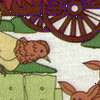
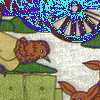
Finishes p3

diff --git a/p3.cpp b/p3.cpp
@@ -1,0 +1,373 @@
+#include "opencv2/highgui.hpp"
+#include <iostream>
+using namespace cv;
+using namespace std;
+#include <math.h>       /* pow */
+
+#include <Eigen/Dense>
+
+Eigen::Vector3d RGB_to_XYZ(Eigen::Vector3d RGB) {
+double var_R = ( RGB(0) / 255.0 );
+double var_G = ( RGB(1) / 255.0 );
+double var_B = ( RGB(2) / 255.0 );
+
+if ( var_R > 0.04045 ) {
+    var_R = pow(( ( var_R + 0.055 ) / 1.055 ) , 2.4);
+} else {
+    var_R = var_R / 12.92;
+}
+if ( var_G > 0.04045 ){
+    var_G = pow(( ( var_G + 0.055 ) / 1.055 ) , 2.4);
+} else {
+ var_G = var_G / 12.92;
+}
+if ( var_B > 0.04045 ){
+    var_B = pow(( ( var_B + 0.055 ) / 1.055 ) , 2.4);
+}
+else {
+ var_B = var_B / 12.92;
+}
+
+var_R = var_R * 100;
+var_G = var_G * 100;
+var_B = var_B * 100;
+
+double X = var_R * 0.4124 + var_G * 0.3576 + var_B * 0.1805;
+double Y = var_R * 0.2126 + var_G * 0.7152 + var_B * 0.0722;
+double Z = var_R * 0.0193 + var_G * 0.1192 + var_B * 0.9505;
+
+return Eigen::Vector3d(X, Y, Z);
+}
+
+Eigen::Vector3d XYZ_to_Luv(Eigen::Vector3d XYZ) {
+    double X = XYZ(0);
+    double Y = XYZ(1);
+    double Z = XYZ(2);
+
+    double var_U = ( 4.0 * X ) / ( X + ( 15.0 * Y ) + ( 3.0 * Z ) );
+    double var_V = ( 9.0 * Y ) / ( X + ( 15.0 * Y ) + ( 3.0 * Z ) );
+
+    double var_Y = Y / 100;
+
+    if ( var_Y > 0.008856 ) {
+        var_Y = pow(var_Y , ( 1.0/3.0 ));
+    } else {
+        var_Y = (7.787 * var_Y) + (16.0 / 116.0);
+    }
+
+    double ReferenceX = 95.047;
+    double ReferenceY = 100.0;
+    double ReferenceZ = 108.883;
+    double ref_U = ( 4.0 * ReferenceX ) / ( ReferenceX + ( 15.0 * ReferenceY ) + ( 3.0 * ReferenceZ ) );
+    double ref_V = ( 9.0 * ReferenceY ) / ( ReferenceX + ( 15.0 * ReferenceY ) + ( 3.0 * ReferenceZ ) );
+
+    double L = ( 116 * var_Y ) - 16;
+    double u = 13 * L * ( var_U - ref_U );
+    double v = 13 * L * ( var_V - ref_V );
+
+    return Eigen::Vector3d(L, u, v);
+}
+
+Eigen::Vector3d RGB_to_Luv(Eigen::Vector3d RGB) {
+    Eigen::Vector3d XYZ = RGB_to_XYZ(RGB);
+    //cout << "XYZ:\n" << XYZ << "\n";
+    return XYZ_to_Luv(XYZ);
+}
+
+Eigen::Vector3d RGB_to_Luv_V1(Eigen::Vector3d RGB) {
+    Eigen::Matrix3d rgbmat;
+    rgbmat << 0.412453, 0.357580, 0.180423,
+       0.212671, 0.715160, 0.072169,
+       0.019334, 0.119193, 0.950227;
+      Eigen::Vector3d XYZ = rgbmat * RGB;
+
+      double X = XYZ(0);
+      double Y = XYZ(1);
+      double Z = XYZ(2);
+      //cout << "X " << X << "\nY " << Y << "\nZ " << Z << "\n";
+      double L;
+      if (Y > 0.008856) {
+        L = pow(116*Y, (1.0/3.0));
+      } else {
+        L = 903.3*Y;
+      }
+      double uprime = (4.0*X)/(X + (15.0*Y) + (3.0*Z));
+      double vprime = (9.0*Y)/(X + (15.0*Y) + (3.0*Z));
+      double un = 0.19793943;
+      double vn = 0.46831096;
+      double u = 13.0*L*(uprime - 0.19793943);
+      double v = 13.0*L*(vprime - 0.46831096);
+
+      Eigen::Vector3d out;
+      out(0) = L;
+      out(1) = u;
+      out(2) = v;
+      return out;
+}
+
+
+double getYfromL(double L) {
+    double epsilon = 0.008856;
+    double k = 903.3;
+    if (L > k*epsilon) {
+        return pow((L+16)/116, 3);
+    }
+
+    return L/k;
+}
+
+Eigen::Vector3d Luv_to_XYZ(Eigen::Vector3d Luv) {
+
+        double L = Luv(0);
+        double u = Luv(1);
+        double v = Luv(2);
+    //cout << "inside Luv_to_XYZ ";
+    //cout << "L=" << L << " u=" << u << " v=" << v << "\n";
+
+double var_Y = ( L + 16.0 ) /116.0;
+if ( pow(var_Y, 3)  > 0.008856 ){
+    var_Y = pow(var_Y, 3);
+}
+else {
+    var_Y = ( var_Y - 16.0 / 116.0 ) / 7.787;
+}
+
+    double ReferenceX = 95.047;
+    double ReferenceY = 100.0;
+    double ReferenceZ = 108.883;
+
+double ref_U = ( 4.0 * ReferenceX ) / ( ReferenceX + ( 15.0 * ReferenceY ) + ( 3.0 * ReferenceZ ) );
+double ref_V = ( 9.0 * ReferenceY ) / ( ReferenceX + ( 15.0 * ReferenceY ) + ( 3.0 * ReferenceZ ) );
+
+double var_U = u / ( 13.0 * L ) + ref_U;
+double var_V = v / ( 13.0 * L ) + ref_V;
+
+double Y = var_Y * 100.0;
+double X =  -1 * ( 9.0 * Y * var_U ) / ( ( var_U - 4.0 ) * var_V - var_U * var_V );
+double Z = ( 9.0 * Y - ( 15.0 * var_V * Y ) - ( var_V * X ) ) / ( 3 * var_V );
+    //cout << "inside Luv_to_XYZ ";
+    //cout << "X=" << X << " Y=" << Y << " Z=" << Z << "\n";
+
+    return Eigen::Vector3d(X, Y, Z);
+}
+
+Eigen::Vector3d XYZ_to_RGB(Eigen::Vector3d XYZ) {
+    //X, Y and Z input refer to a D65/2° standard illuminant.
+    //sR, sG and sB (standard RGB) output range = 0 ÷ 255
+
+    double var_X = XYZ(0) / 100.0;
+    double var_Y = XYZ(1) / 100.0;
+    double var_Z = XYZ(2) / 100.0;
+
+    double var_R = var_X *  3.2406 + var_Y * -1.5372 + var_Z * -0.4986;
+    double var_G = var_X * -0.9689 + var_Y *  1.8758 + var_Z *  0.0415;
+    double var_B = var_X *  0.0557 + var_Y * -0.2040 + var_Z *  1.0570;
+
+    if ( var_R > 0.0031308 ) {
+        var_R = 1.055 * pow( var_R , ( 1 / 2.4 ) ) - 0.055;
+    } else {
+       var_R = 12.92 * var_R;
+    }
+    if ( var_G > 0.0031308 ) {
+        var_G = 1.055 * pow( var_G , ( 1 / 2.4 ) ) - 0.055;
+    } else {
+        var_G = 12.92 * var_G;
+    }
+    if ( var_B > 0.0031308 ) {
+        var_B = 1.055 * pow( var_B , ( 1 / 2.4 ) ) - 0.055;
+    } else {
+        var_B = 12.92 * var_B;
+    }
+
+    double sR = var_R * 255;
+    double sG = var_G * 255;
+    double sB = var_B * 255;
+    return Eigen::Vector3d(sR, sG, sB);
+}
+
+
+double Linear_Scale(double x, double a, double b, double A, double B) {
+    return (((x-a)*(B-A))/(b-a))+A;
+}
+
+void runOnWindow(int W1,int H1, int W2,int H2, Mat inputImage, char *outName) {
+  int rows = inputImage.rows;
+  int cols = inputImage.cols;
+
+  vector<Mat> i_planes;
+  split(inputImage, i_planes);
+  Mat iB = i_planes[0];
+  Mat iG = i_planes[1];
+  Mat iR = i_planes[2];
+
+  // dynamically allocate RGB arrays of size rows x cols
+  int** R = new int*[rows];
+  int** G = new int*[rows];
+  int** B = new int*[rows];
+  for(int i = 0 ; i < rows ; i++) {
+    R[i] = new int[cols];
+    G[i] = new int[cols];
+    B[i] = new int[cols];
+  }
+
+  for(int i = 0 ; i < rows ; i++)
+    for(int j = 0 ; j < cols ; j++) {
+      R[i][j] = iR.at<uchar>(i,j);
+      G[i][j] = iG.at<uchar>(i,j);
+      B[i][j] = iB.at<uchar>(i,j);
+    }
+
+
+  //	   The transformation should be based on the
+  //	   historgram of the pixels in the W1,W2,H1,H2 range.
+  //	   The following code goes over these pixels
+  double largestL = -1;
+  double smallestL = -1;
+    int h_i [101];
+    int f_i [101];
+    int lookup_table [101];
+
+    for(int x = 0; x <= 100; x++) {
+        h_i[x] = 0;
+        f_i[x] = 0;
+    }
+
+  for(int i = H1 ; i <= H2 ; i++) {
+    for(int j = W1 ; j <= W2 ; j++) {
+      double r = R[i][j];
+      double g = G[i][j];
+      double b = B[i][j];
+      Eigen::Vector3d RGB(r, g, b);
+
+        Eigen::Vector3d Luv = RGB_to_Luv(RGB);
+
+        int getL = 0;
+        Luv(getL) = floor(Luv(getL));
+        int index = (int) Luv(getL);
+        h_i[index] += 1;
+    }
+  }
+    for(int x = 0; x <= 100; x++) {
+        if (x - 1 >= 0) {
+            f_i[x] = h_i[x] + f_i[x-1];
+            continue;
+        }
+        f_i[x] = h_i[x];
+    }
+    /*
+    cout << "f_i ";
+    for(int x = 0; x <= 100; x++) {
+        cout << f_i[x] << ", ";
+    }
+    cout << "\n";
+    cout << "h_i ";
+    for(int x = 0; x <= 100; x++) {
+        cout << h_i[x] << ", ";
+    }
+    cout << "\n";
+     */
+    double num_pixels = f_i[100];
+    //cout << "num pixels " << num_pixels << "\n";
+    for(int x = 0; x <= 100; x++) {
+        double A = 0.0;
+        if (x - 1 >= 0) {
+            A = f_i[x-1];
+        }
+        double numerator = (A+f_i[x])*100.0;
+        double denominator = 2*num_pixels;
+        // cout << "numerator ";
+        // cout << numerator;
+        // cout << " denom ";
+        // cout << denominator;
+        int res = floor(numerator/denominator);
+        lookup_table[x] = res;
+    }
+
+    //cout << "small\n" << smallestL << "\nbig\n" << largestL << "\n";
+  for(int i = H1 ; i <= H2 ; i++) {
+    for(int j = W1 ; j <= W2 ; j++) {
+      double r = R[i][j];
+      double g = G[i][j];
+      double b = B[i][j];
+      Eigen::Vector3d RGB(r, g, b);
+        //cout << "RGB:\n" << RGB << "\n";
+
+      Eigen::Vector3d Luv = RGB_to_Luv(RGB);
+        Luv(0) = floor(Luv(0));
+        //cout << "before " << Luv(0) << " ";
+        int index = (int) Luv(0);
+        Luv(0) = (double) lookup_table[index];
+        // cout << "after " << Luv(0) << " ";
+        // cout << "lookup table " << lookup_table[index] << " ";
+        // cout << "index " << index << " ";
+      Eigen::Vector3d XYZ = Luv_to_XYZ(Luv);
+      Eigen::Vector3d RGBdelta = XYZ_to_RGB(XYZ);
+        // cout << "\n";
+
+      R[i][j] = RGBdelta(0);
+      G[i][j] = RGBdelta(1);
+      B[i][j] = RGBdelta(2);
+    }
+  }
+
+  Mat oR(rows, cols, CV_8UC1);
+  Mat oG(rows, cols, CV_8UC1);
+  Mat oB(rows, cols, CV_8UC1);
+  for(int i = 0 ; i < rows ; i++)
+    for(int j = 0 ; j < cols ; j++) {
+      oR.at<uchar>(i,j) = R[i][j];;
+      oG.at<uchar>(i,j) = G[i][j];;
+      oB.at<uchar>(i,j) = B[i][j];;
+    }
+
+  Mat o_planes[] = {oB, oG, oR};
+  Mat outImage;
+  merge(o_planes, 3, outImage);
+  
+  imwrite(outName, outImage);
+}
+
+int main(int argc, char** argv) {
+  if(argc != 7) {
+    cerr << argv[0] << ": "
+	 << "got " << argc-1 
+	 << " arguments. Expecting six: w1 h1 w2 h2 ImageIn ImageOut." 
+	 << endl ;
+    cerr << "Example: proj1b 0.2 0.1 0.8 0.5 fruits.jpg out.bmp" << endl;
+    return(-1);
+  }
+  double w1 = atof(argv[1]);
+  double h1 = atof(argv[2]);
+  double w2 = atof(argv[3]);
+  double h2 = atof(argv[4]);
+  char *inputName = argv[5];
+  char *outputName = argv[6];
+
+  if(w1<0 || h1<0 || w2<=w1 || h2<=h1 || w2>1 || h2>1) {
+    cerr << " arguments must satisfy 0 <= w1 < w2 <= 1"
+	 << " ,  0 <= h1 < h2 <= 1" << endl;
+    return(-1);
+  }
+
+  Mat inputImage = imread(inputName, CV_LOAD_IMAGE_UNCHANGED);
+  if(inputImage.empty()) {
+    //cout <<  "Could not open or find the image " << inputName << endl;
+    return(-1);
+  }
+
+  if(inputImage.type() != CV_8UC3) {
+    //cout <<  inputName << " is not a standard color image  " << endl;
+    return(-1);
+  }
+
+  int rows = inputImage.rows;
+  int cols = inputImage.cols;
+  int W1 = (int) (w1*(cols-1));
+  int H1 = (int) (h1*(rows-1));
+  int W2 = (int) (w2*(cols-1));
+  int H2 = (int) (h2*(rows-1));
+
+  runOnWindow(W1, H1, W2, H2, inputImage, outputName);
+
+  return 0;
+}
